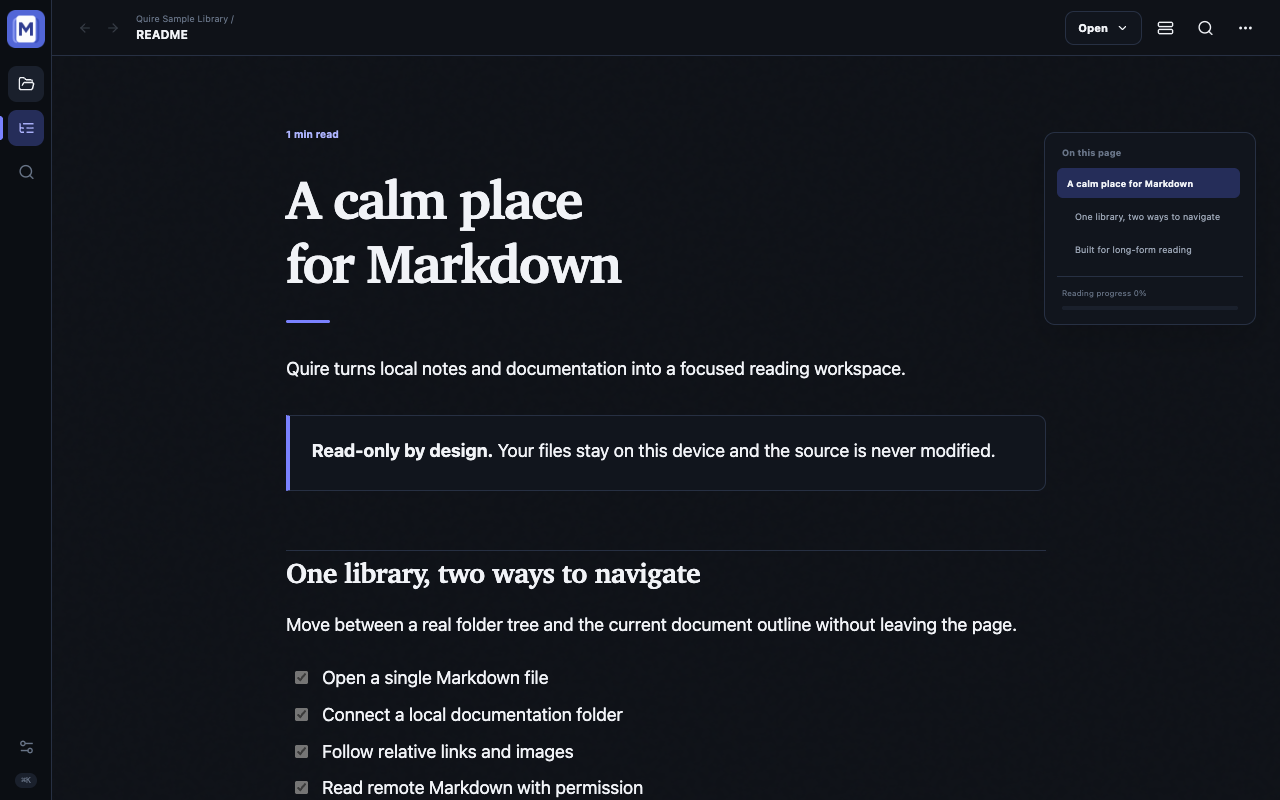
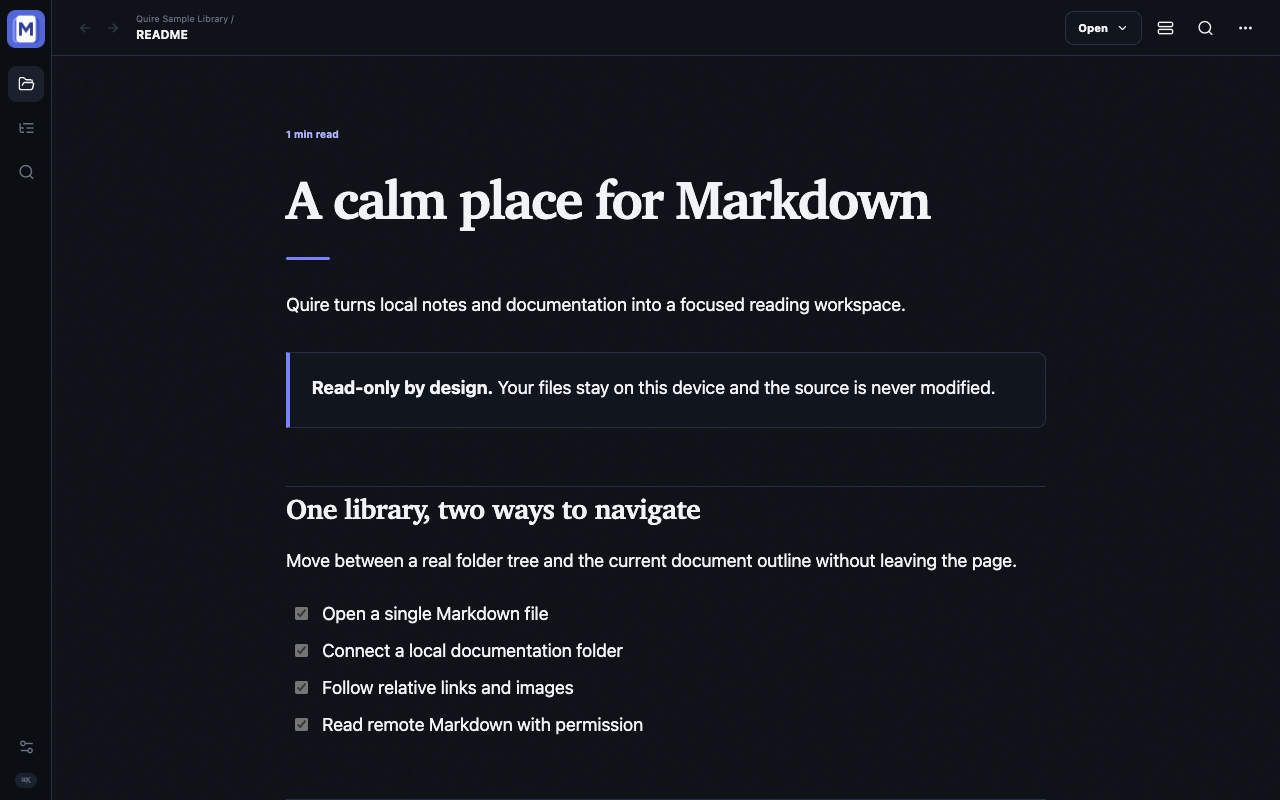
chore(release): prepare v0.0.4

diff --git a/docs/acceptance-v0.0.4.md b/docs/acceptance-v0.0.4.md
@@ -1,0 +1,43 @@
+# Quire v0.0.4 acceptance matrix
+
+This document is the release boundary for the 0.0.4 update. Checked rows require reproducible evidence from the final release commit. Publication rows remain open until that commit is pushed and its CI run passes.
+
+## Release identity and product boundary
+
+- [x] Set the extension, package, lockfile, documentation, changelog, and release guard to `0.0.4`.
+- [x] Preserve Quire's single purpose as a focused, read-only Markdown reader and local document workspace.
+- [x] Keep `activeTab`, `contextMenus`, `scripting`, and `storage` as the only required permissions.
+- [x] Keep HTTP, HTTPS, and local-file access optional and user initiated.
+- [x] Add no new data collection, developer backend, analytics, or remote-code behavior.
+
+## 0.0.4 interaction fixes
+
+- [x] Keep the document outline beside workspace folders and let users expand or collapse it like a folder.
+- [x] Keep long outline lists scrollable without compressing headings or blocking main-document scrolling.
+- [x] Navigate to an outline heading on the first click without competing scroll operations.
+- [x] Keep the document surface stable through the end of long pages without trailing blank space.
+- [x] Retry deferred Mermaid rendering after recoverable failures and avoid permanently empty diagrams.
+- [x] Let first-level headings use the full reading-column width.
+- [x] Open a folder from an embedded local `file://` preview while preserving the original address.
+- [x] Keep a folder selected from a local-file preview session-only and disable unsupported automatic refresh.
+
+## Chrome Web Store material
+
+- [x] Regenerate five global English and five Simplified Chinese screenshots from the final 0.0.4 interface.
+- [x] Validate every screenshot as 1280×800, 24-bit RGB PNG without alpha.
+- [x] Keep the single-`M` icon, 440×280 promotional tile, and 128×128 store icon reproducible.
+- [x] Keep the localized listing, permission explanations, privacy form, and privacy policy consistent with runtime behavior.
+- [x] Confirm that 0.0.4 requests no permission beyond the published 0.0.3 permission set.
+
+## Reproducible verification evidence
+
+- [x] TypeScript compilation and all unit/component tests pass on the final 0.0.4 commit.
+- [x] Chrome and Firefox production builds pass manifest and package validation.
+- [x] The installed Chromium extension passes the complete reader E2E flow, including the local-file folder fallback.
+- [x] The Firefox source archive reconstructs every packaged file byte-for-byte.
+- [x] The store artwork verifier passes all ten localized screenshots.
+- [x] The release guard accepts `v0.0.4`.
+- [ ] GitHub CI passes on the final 0.0.4 commit, including installed Firefox action, context-menu, and native-shortcut flows.
+- [ ] Create and push the annotated `v0.0.4` tag only after every preceding gate passes.
+
+Local evidence on 2026-08-06: `npm run compile`, all 116 unit/component tests, Chrome and Firefox packaging, package validation, byte-for-byte source reconstruction, store verification, `v0.0.4` release validation, and the installed Chromium E2E flow passed. The annotated release tag must not be created from an unpushed commit or before its CI run succeeds.

diff --git a/CHANGELOG.md b/CHANGELOG.md
@@ -4,6 +4,25 @@ All notable changes to Quire are documented here. This project follows [Semantic
 
 ## [Unreleased]
 
+## [0.0.4] - 2026-08-06
+
+### Added
+
+- Added an expandable document-outline tree beside workspace folders so long documents remain navigable without a separate floating panel
+- Added a session-only folder chooser for local `file://` previews while preserving the original browser address
+
+### Changed
+
+- Allowed document titles to use the full reading-column width instead of limiting first-level headings to 19 characters
+- Kept the document outline at the same hierarchy as workspace folders and made long outline lists independently scrollable
+
+### Fixed
+
+- Prevented blank space and broken page geometry after scrolling to the end of a document
+- Made deferred Mermaid rendering recover from intermittent failures without leaving diagrams permanently empty
+- Prevented outline navigation from disabling main-document scrolling or requiring repeated clicks to reach a heading
+- Replaced the misleading folder-permission error shown when opening a workspace from an embedded local-file preview
+
 ## [0.0.3] - 2026-08-02
 
 ### Added
@@ -74,7 +93,8 @@ All notable changes to Quire are documented here. This project follows [Semantic
 - First-run guidance, actionable error and permission states, English and Simplified Chinese interfaces
 - Reproducible browser packages, automated tests, community documents, store materials, and release automation
 
-[Unreleased]: https://github.com/hengistchan/quire-markdown-reader/compare/v0.0.3...HEAD
+[Unreleased]: https://github.com/hengistchan/quire-markdown-reader/compare/v0.0.4...HEAD
+[0.0.4]: https://github.com/hengistchan/quire-markdown-reader/compare/v0.0.3...v0.0.4
 [0.0.3]: https://github.com/hengistchan/quire-markdown-reader/compare/v0.0.2...v0.0.3
 [0.0.2]: https://github.com/hengistchan/quire-markdown-reader/compare/v0.0.1...v0.0.2
 [0.0.1]: https://github.com/hengistchan/quire-markdown-reader/releases/tag/v0.0.1

diff --git a/README.md b/README.md
@@ -60,7 +60,7 @@ npm run store:verify
 npm run test:e2e
 ```
 
-The installed-extension E2E suite covers Chromium and Firefox. See the [v0.0.3 acceptance matrix](docs/acceptance-v0.0.3.md) for the current release boundary; earlier matrices remain as historical evidence.
+The installed-extension E2E suite covers Chromium and Firefox. See the [v0.0.4 acceptance matrix](docs/acceptance-v0.0.4.md) for the current release boundary; earlier matrices remain as historical evidence.
 
 ## Permissions and privacy
 
